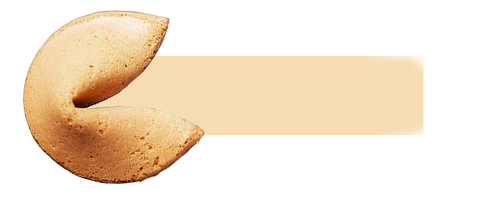
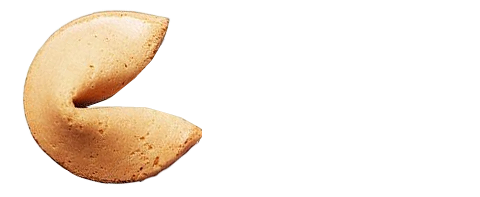
oriveimushavebs

Changed region(s): [[0.1875, 0.2741, 0.9062, 0.7005]]

diff --git a/WebContent/FortuneCookie.css b/WebContent/FortuneCookie.css
@@ -3,8 +3,10 @@
 @import url("AddReview.css");
 
 body {
-	background-image: url("./Images/back2.png");
+	background-image: url("./Images/cookie-background.jpg");
 	background-repeat: no-repeat;
+	background-attachment: fixed;
+	background-size: 100% 100%;
 }
 
 .row {
@@ -14,9 +16,6 @@ body {
 	margin-top: 20xp;
 }
 
-.cookie {
-	width: 230px;
-}
 
 .zoom_img img {
 	margin: 50px;
@@ -40,14 +39,15 @@ body {
 	font-size: 3em;
 	letter-spacing: .2em;
 	line-height: 1.1em;
-	margin: 0px;
+	margin: 0px;	
 	text-transform: uppercase;
 }
 
 .cookies {
 	text-align: center;
 	padding-top: 3%;
-	margin-top: 30px;
+	width: auto;
+	height: auto;
 }
 
 #cookieFortune {
@@ -68,4 +68,34 @@ body {
 #cookie-fortune-img {
 	height: 270px;
 	width: inherit;
+}
+
+img.coPic{
+	width: 100px;
+	height: auto;
+}
+
+
+#a1{
+	position: absolute;
+	bottom: 0%;
+	left: 0%;
+}
+
+#a2{
+	position: absolute;
+	bottom: 35%;
+	left: 35%;
+}
+
+#a3{
+	position: absolute;
+	bottom: 15%;
+	right: 2%;
+}
+
+#a4{
+	position: absolute;
+	bottom: 45%;
+	right: 0.5%;
 }
